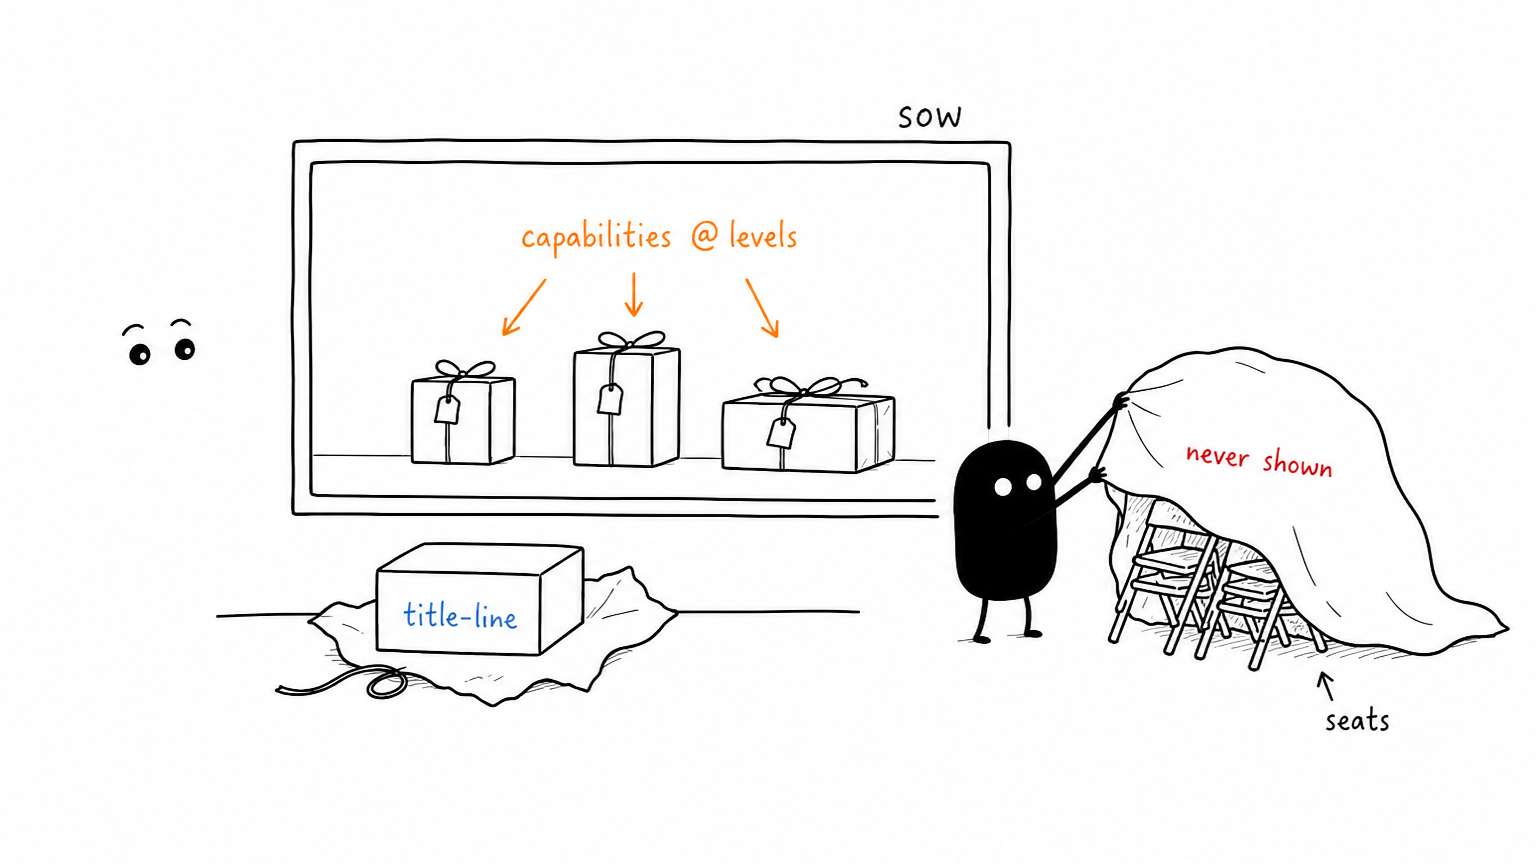
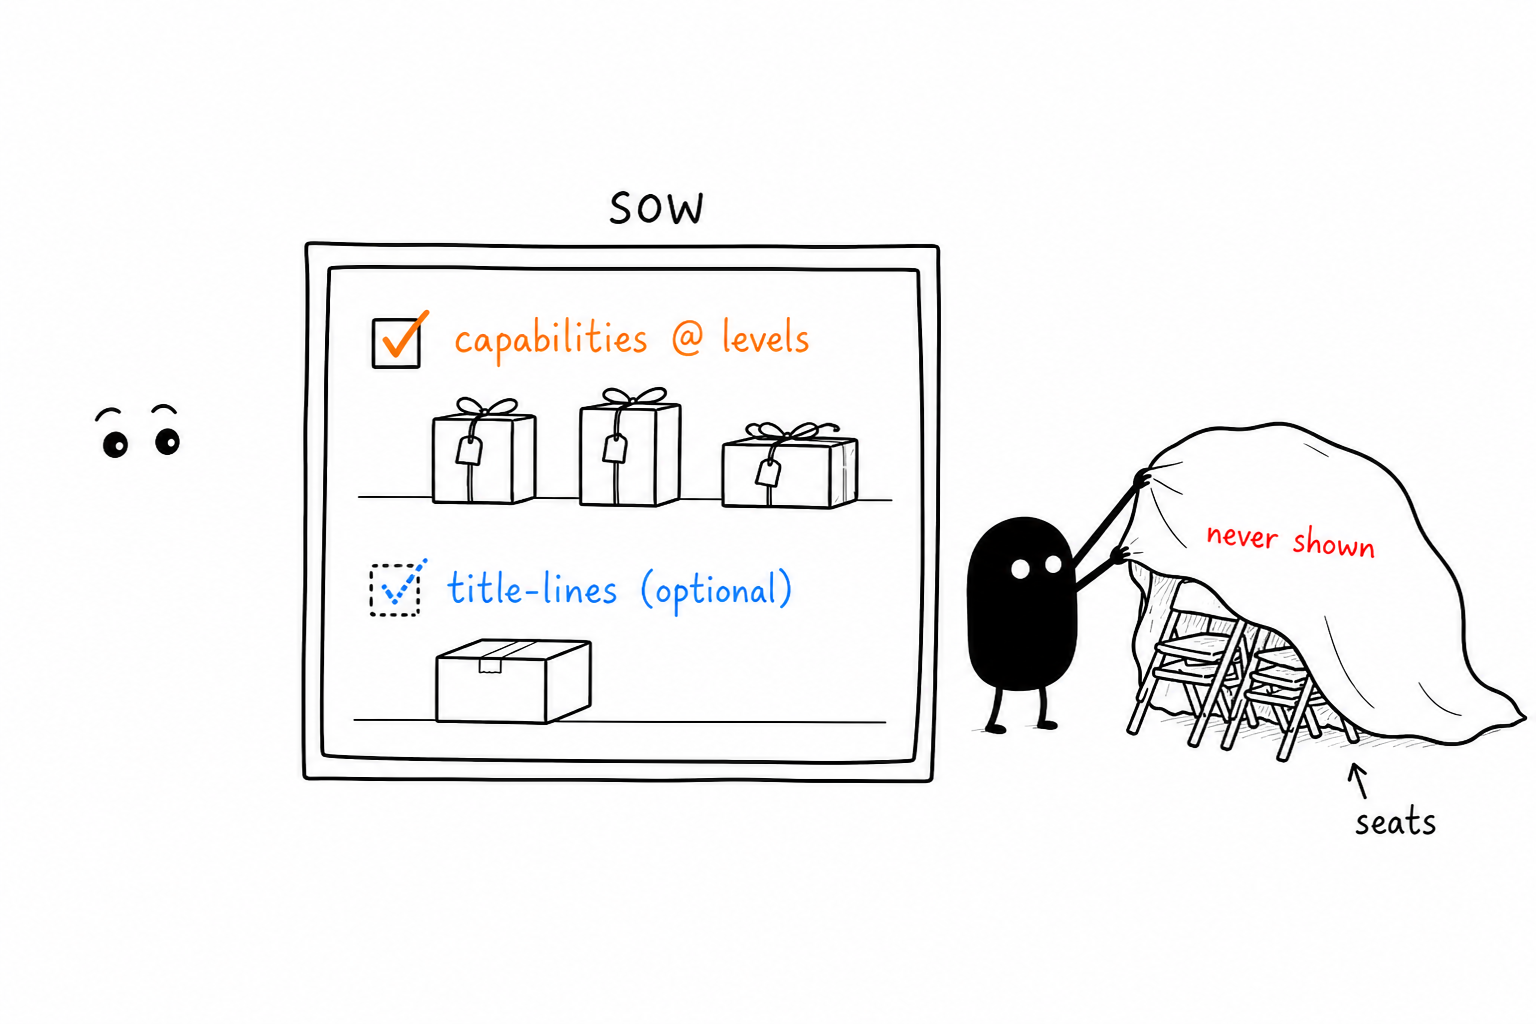
Restore explainer copy and reshoot the landing drawings.
The first beat lists domains, capabilities, levels, roles, titles, seats as one list, not several. Figcaptions are gone. Each beat has explainer copy, not a single sentence. Drawings show the capability as a puzzle assembled at L1/L2/L3, a seat as runtime staffed one or several ways, and the SOW guaranteeing capabilities at levels with optional title-lines and never seats.

Changed region(s): [[0.1562, 0.125, 1.0, 0.8438], [0.0625, 0.375, 0.125, 0.4688]]

diff --git a/how-it-all-relates.md b/how-it-all-relates.md
@@ -2,7 +2,9 @@
 
 The site's snapshot landing page. Published as `index.html` by `npm run build`. This file is the same argument, for editing.
 
-The convolution comes from treating six things as six lists. There's **one list**. Everything else points at it.
+Domains, capabilities, levels, roles, titles, seats. That looks like six lists. It is one list. Everything else is a way of pointing at it.
+
+The convolution comes from treating those six words as six things to keep. Domains and capabilities are the list. Levels are how a capability is executed. Roles, titles, and seats are people pointing at it — not parallel inventories.
 
 ![One list](assets/how-it-all-relates-illustrations/01-one-list.png)
 
@@ -14,7 +16,7 @@ The convolution comes from treating six things as six lists. There's **one list*
 DOMAIN  ──contains──▸  CAPABILITY  ──executed at──▸  LEVEL (L1–L3)
 ```
 
-This is the model. Domains and capabilities are fixed; capabilities carry levels. Nothing else below is its own list.
+This is the model. A capability is the named outcome we promise. It can be delivered at L1, L2, or L3 — same promise, different depth of judgment. The capability is the whole piece; the level is which piece you slot in to assemble it. Domains and capabilities are fixed; capabilities carry levels. Nothing else below is its own list.
 
 ![The spine](assets/how-it-all-relates-illustrations/02-the-spine.png)
 
@@ -40,7 +42,9 @@ Title, ownership, and seat are **not three more taxonomies** — they're three v
 
 ![Three verbs](assets/how-it-all-relates-illustrations/03-three-verbs.png)
 
-**The unlock:** a **seat is a capability-at-level with a person in it.** "Eval Harness Engineer" = someone executing *Validation & testing @ L2* on this engagement. That's why seats "pertain to a capability at a level" — that's literally their definition. Likewise: ownership = a capability + a person (permanent); title = a bundle of capabilities + a person (market-facing).
+**The unlock:** a **seat is a capability-at-level with a person in it.** That is a runtime instance, not a second list. We sell the capability at a level, not a headcount. One person can staff it, or several people together can make up that capability at the level needed, depending on resources.
+
+"Eval Harness Engineer" = someone executing *Validation & testing @ L2* on this engagement. That's why seats "pertain to a capability at a level" — that's literally their definition. Likewise: ownership = a capability + a person (permanent); title = a bundle of capabilities + a person (market-facing).
 
 So seats and capabilities aren't two parallel lists to reconcile. A seat is the *runtime instance* of a capability-at-level. The seat vocabulary can churn (Context Engineer, Red Teamer) without touching the capability list underneath.
 
